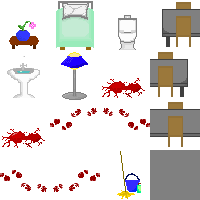
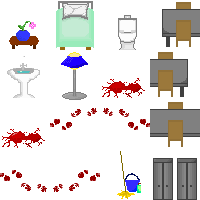
added going through doors, deleted useless files, updated stuff

diff --git a/FGJ2013/FGJ2013/Hitbox.cs b/FGJ2013/FGJ2013/Hitbox.cs
@@ -18,7 +18,6 @@ namespace FGJ2013
     {
         public List<Rectangle> hitboxes;
         public List<Rectangle> doors;
-        Rectangle playerRectangle;
         public Hitbox(Map map)
         {
             hitboxes = new List<Rectangle>();
@@ -33,7 +32,7 @@ namespace FGJ2013
                 }                
             }
             doors = new List<Rectangle>();
-            foreach (var tiles in map.TileLayers[map.TileLayers.Count - 3].Tiles)
+            foreach (var tiles in map.TileLayers[1].Tiles)
             {
                 foreach (var tile in tiles)
                 {
@@ -48,12 +47,13 @@ namespace FGJ2013
         public Vector2 MapHit(Vector2 CharacterPosition)
         {
             Vector2 hit = Vector2.Zero;
-            playerRectangle = new Rectangle((int)CharacterPosition.X + 10, (int)CharacterPosition.Y + 45, 35, 35);
+            var playerRectangle = new Rectangle((int)CharacterPosition.X + 10, (int)CharacterPosition.Y + 45, 35, 35);
             foreach (Rectangle hitbox in hitboxes)
             {
                 if (hitbox.Intersects(playerRectangle))
                 {
-                    Vector2 difference = new Vector2((playerRectangle.Location.X + playerRectangle.Width / 2) - (hitbox.Location.X + hitbox.Width / 2), (playerRectangle.Location.Y + playerRectangle.Height / 2) - (hitbox.Location.Y + hitbox.Height / 2));
+                    Vector2 difference = new Vector2((playerRectangle.Location.X + playerRectangle.Width / 2) - (hitbox.Location.X + hitbox.Width / 2),
+                        (playerRectangle.Location.Y + playerRectangle.Height / 2) - (hitbox.Location.Y + hitbox.Height / 2));
 
                     if (Math.Abs(difference.Y) > Math.Abs(difference.X))
                     {
@@ -83,18 +83,48 @@ namespace FGJ2013
                 return false;
         }
 
-        public bool AtDoor(Player player)
+        public void AtDoor(Player player)
         {
+            var playerRectangle = new Rectangle((int)player.position.X + 10, (int)player.position.Y + 45, 35, 35);
             foreach (var door in doors)
             {
-                if (door.Intersects(new Rectangle((int)player.position.X, 
-                    (int)player.position.Y, 35, 35)))
+                if (door.Intersects(new Rectangle((int)player.position.X + 9, 
+                    (int)player.position.Y + 44, 37, 37)))
                 {
-                    Debug.WriteLine("Suddenly door " + door.Location);
-                    return true;
+                    Vector2 difference = new Vector2((playerRectangle.Location.X + playerRectangle.Width / 2) - (door.Location.X + door.Width / 2),
+                        (playerRectangle.Location.Y + playerRectangle.Height / 2) - (door.Location.Y + door.Height / 2)); // vector from door to player
+
+                    if (Math.Abs(difference.Y) > Math.Abs(difference.X))
+                    {
+                        if (difference.Y < 0) // above
+                        {
+                            player.position.Y += door.Height * 4;
+                            break;
+                        }
+                        else if (difference.Y > 0) // below
+                        {
+                            player.position.Y -= door.Height * 4;
+                            break;
+                        }
+
+                    }
+                    else if (Math.Abs(difference.X) > Math.Abs(difference.Y))
+                    {
+                        if (difference.X < 0) // left
+                        {
+                            player.position.X += door.Width * 4;
+                            break;
+                        }
+                        else if (difference.X > 0) // right
+                        {
+                            player.position.X -= door.Width * 4;
+                            break;
+                        }
+                    }
+
+                    Debug.WriteLine("Suddenly door " + door.Location + player.position);
                 }
             }
-            return false;
         }
     }
 }

diff --git a/FGJ2013/FGJ2013/Game1.cs b/FGJ2013/FGJ2013/Game1.cs
@@ -66,10 +66,10 @@ namespace FGJ2013
         {
             // Create a new SpriteBatch, which can be used to draw textures.
             spriteBatch = new SpriteBatch(GraphicsDevice);
-            player = new Player(Content.Load<Texture2D>("Animations/AllCharacterAnimationsDark"), new Vector2(50));
+            player = new Player(Content.Load<Texture2D>("Animations/AllCharacterAnimationsDark"), new Vector2(350));
             enemies = new List<Enemy> 
             {
-                new Enemy(Content.Load<Texture2D>("Animations/AllCharacterAnimations"), new Vector2(50)),
+                new Enemy(Content.Load<Texture2D>("Animations/AllCharacterAnimations"), new Vector2(55)),
                 new Enemy(Content.Load<Texture2D>("Animations/AllCharacterAnimationsDark"), new Vector2(80)),
                 new Enemy(Content.Load<Texture2D>("Animations/AllCharacterAnimationsDoctor"), new Vector2(130)),
                 new Enemy(Content.Load<Texture2D>("Animations/AllCharacterAnimationsDoctorDark"), new Vector2(170)),
@@ -160,8 +160,17 @@ namespace FGJ2013
             GraphicsDevice.Clear(Color.Black);
             var playerTileX = (int)Math.Floor(player.position.X / map.TileWidth);
             var playerTileY = (int)Math.Floor((player.position.Y + 45) / map.TileHeight);
-            var playerSourceID = map.TileLayers[map.TileLayers.Count - 1]
-                .Tiles[playerTileX][playerTileY].SourceID;
+            var playerSourceID = 0;
+            try
+            {
+                playerSourceID = map.TileLayers[map.TileLayers.Count - 1]
+                        .Tiles[playerTileX][playerTileY].SourceID;
+            }
+            catch (NullReferenceException)
+            {
+                playerSourceID = 0;
+                //throw;
+            }
            spriteBatch.Begin(SpriteSortMode.Deferred,
                        BlendState.AlphaBlend,
                        null,

diff --git a/FGJ2013/FGJ2013/Player.cs b/FGJ2013/FGJ2013/Player.cs
@@ -62,7 +62,7 @@ namespace FGJ2013
                 }
             }
 
-            Debug.WriteLine(Direction);
+            //Debug.WriteLine(Direction);
 
             playerAnimator.Update(gameTime);
 
